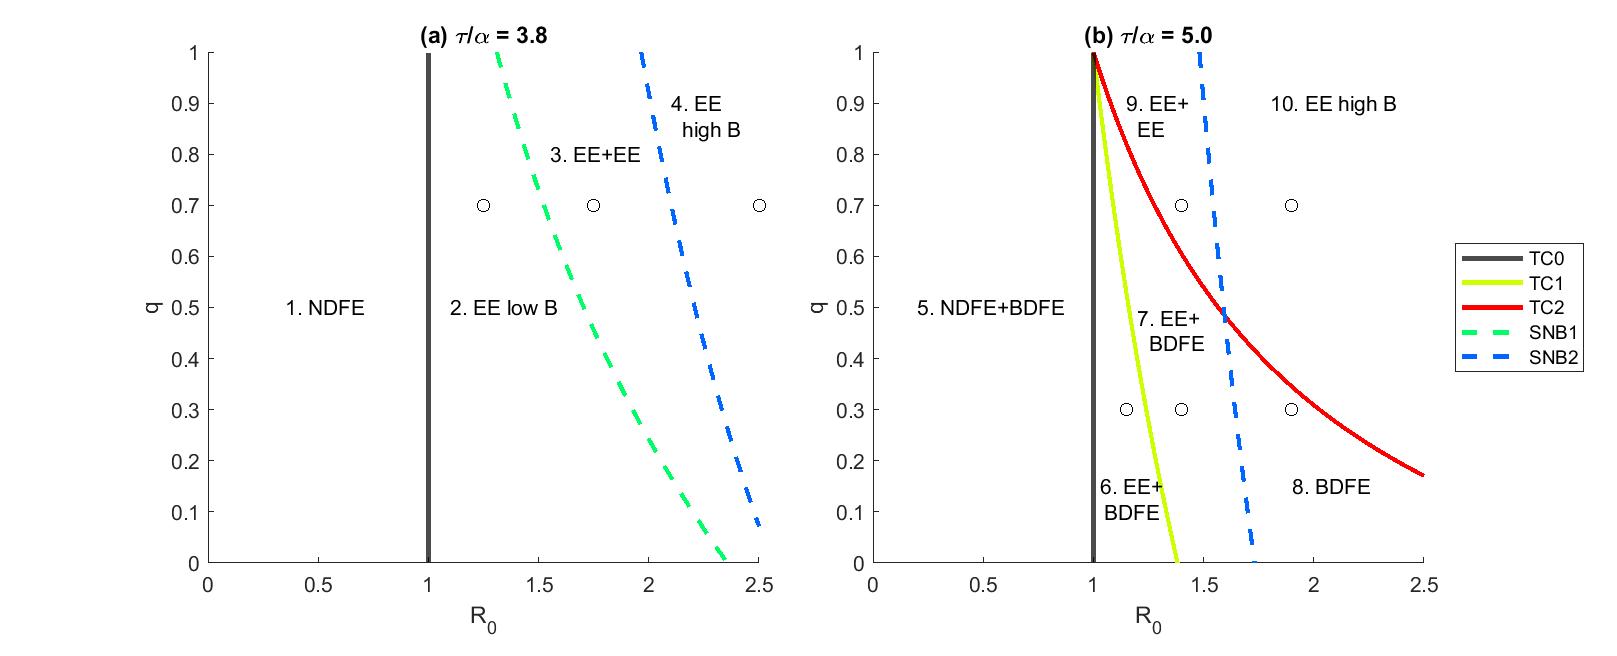
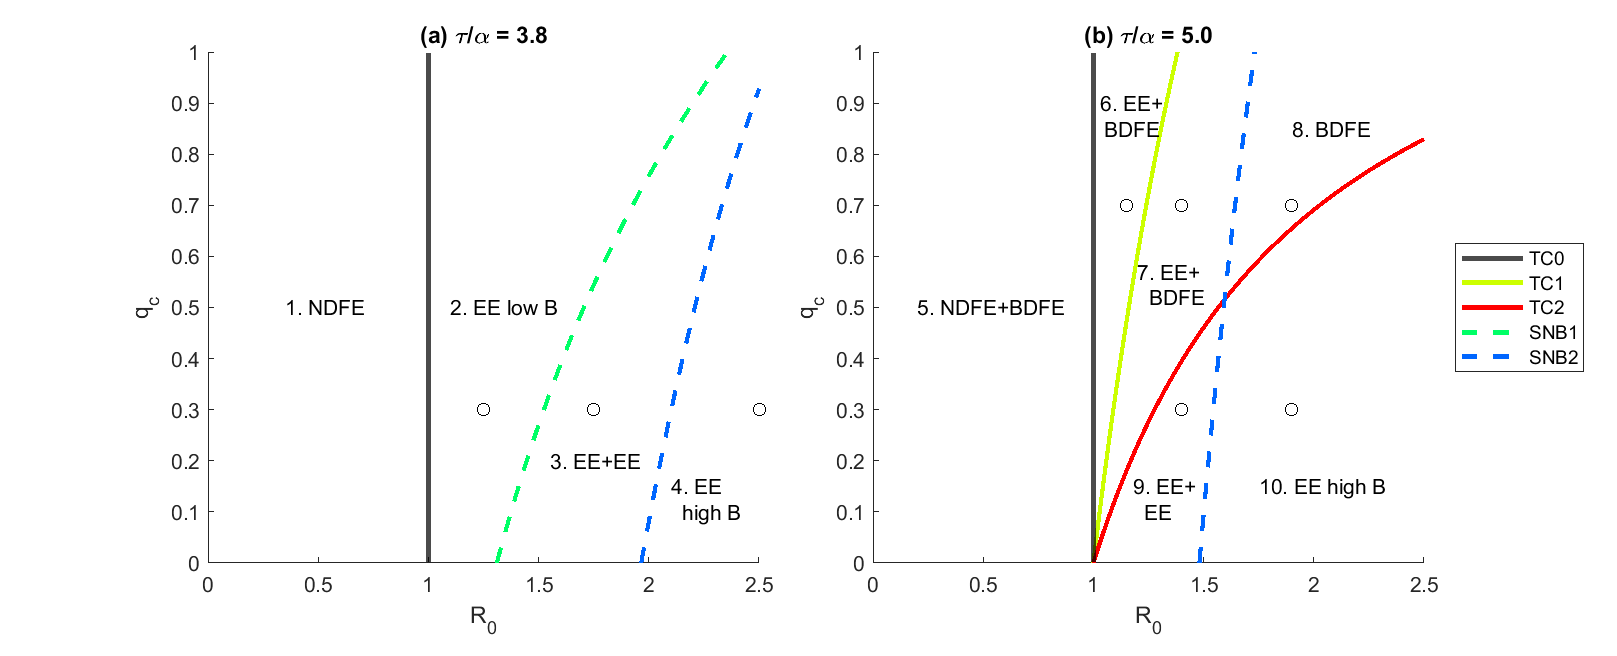
Changed q to 1-q

diff --git a/bifurcation_plot.m b/bifurcation_plot.m
@@ -43,16 +43,17 @@ for iCase = 1:nCases
     % BDFEs
     Bstar = 0.5 * (1 + [1, -1]*sqrt(1-4/a));
     
-    % Bifurcation values of q at each of the BDFEs
-    qplus = (1./R0 + Bstar(1) - 1)./Bstar(1);
-    qminus = (1./R0 + Bstar(2) - 1)./Bstar(2);
+    % Bifurcation values of q at each of the BDFEs (transcritical
+    % bifurcations)
+    qplus = (1 - 1./R0)./Bstar(1);
+    qminus = (1 - 1./R0)./Bstar(2);
     
     % Find the value of R0 at the SNBs as a function of q numerically
-    % Start at q=1 and work down (as it's easier to guess SNB location when q=1
-    % as the S nullcline is vertical)
-    qv = 1:-0.01:0;
+    % Start at q=0 and work up (as it's easier to guess SNB location when
+    % q=0 as the S nullcline is vertical)
+    qv = 0:0.01:1;
     
-    % First doe SNB2, which is the SNB with the lower value of B (and higher
+    % First do SNB2, which is the SNB with the lower value of B (and higher
     % value of R0), which exists for all b
     RSNB2 = zeros(size(qv));
     BSNB2 = zeros(size(qv));
@@ -65,7 +66,7 @@ for iCase = 1:nCases
         RSNB2(ii) = x(1);
         BSNB2(ii) = x(2);
         % Calculate the corresponding value of S
-        SSNB2(ii) = 1/(RSNB2(ii)*(1+(qv(ii)-1)*BSNB2(ii)) );
+        SSNB2(ii) = 1/(RSNB2(ii)*(1-qv(ii)*BSNB2(ii)) );
         % Use this solution as the initial guess for the next value of q
         x0 = x;
     end
@@ -83,7 +84,7 @@ for iCase = 1:nCases
             RSNB1(ii) = x(1);
             BSNB1(ii) = x(2);
             % Calculate the corresponding value of S
-            SSNB1(ii) = 1/(RSNB1(ii)*(1+(qv(ii)-1)*BSNB1(ii)) );
+            SSNB1(ii) = 1/(RSNB1(ii)*(1-qv(ii)*BSNB1(ii)) );
             % Use this solution as the initial guess for the next value of q
             x0 = x;
         end
@@ -119,7 +120,7 @@ for iCase = 1:nCases
     xlim([0, max(R0)])
     ylim([0 1])
     xlabel('R_0')
-    ylabel('q')
+    ylabel('q_c')
 
 
 
@@ -131,26 +132,26 @@ for iCase = 1:nCases
         % Region 2
         text(1.1, 0.5, '2. EE low B')
         % Region 3
-        text(1.55, 0.8, '3. EE+EE')
+        text(1.55, 0.2, '3. EE+EE')
         % Region 4
-        text(2.1, 0.9, '4. EE')
-        text(2.15, 0.85, 'high B')
+        text(2.1, 0.15, '4. EE')
+        text(2.15, 0.1, 'high B')
     else
         % Region 5
         text(0.2 ,0.5, '5. NDFE+BDFE')
         % Region 6
-        text(1.03, 0.15, '6. EE+')
-        text(1.05, 0.1, 'BDFE')
+        text(1.03, 0.9, '6. EE+')
+        text(1.05, 0.85, 'BDFE')
         % Region 7
-        text(1.2, 0.48, '7. EE+')
-        text(1.25, 0.43, 'BDFE')
+        text(1.2, 0.57, '7. EE+')
+        text(1.25, 0.52, 'BDFE')
         % Region 8
-        text(1.9, 0.15, '8. BDFE')
+        text(1.9, 0.85, '8. BDFE')
         % Region 9
-        text(1.15, 0.9, '9. EE+')
-        text(1.2, 0.85, 'EE')
+        text(1.18, 0.15, '9. EE+')
+        text(1.23, 0.1, 'EE')
         % Region 10
-        text(1.8, 0.9, '10. EE high B')
+        text(1.75, 0.15, '10. EE high B')
 
 
     end

diff --git a/getPar.m b/getPar.m
@@ -11,42 +11,42 @@ if iCase == 1
     % Regime 2
     par.Tau = 3.8 * par.Alpha;
     par.Beta = 1.25 * par.Gamma;
-    par.q = 0.7;
+    par.q = 0.3;
 elseif iCase == 2
     % Regime 3
     par.Tau = 3.8 * par.Alpha;
     par.Beta = 1.75 * par.Gamma;
-    par.q = 0.7;
+    par.q = 0.3;
 elseif iCase == 3
     % Regime 4
     par.Tau = 3.8 * par.Alpha;
     par.Beta = 2.5 * par.Gamma;
-    par.q = 0.7;
+    par.q = 0.3;
 elseif iCase == 4
     % Regime 6
     par.Tau = 5 * par.Alpha;
     par.Beta = 1.4 * par.Gamma;
-    par.q = 0.7;
+    par.q = 0.3;
 elseif iCase == 5
     % Regime 7
     par.Tau = 5 * par.Alpha;
     par.Beta = 1.9 * par.Gamma;
-    par.q = 0.7;
+    par.q = 0.3;
 elseif iCase == 6
     % Regime 8
     par.Tau = 5 * par.Alpha;
     par.Beta = 1.15 * par.Gamma;
-    par.q = 0.3;
+    par.q = 0.7;
 elseif iCase == 7
     % Regime 9
     par.Tau = 5 * par.Alpha;
     par.Beta = 1.4 * par.Gamma;
-    par.q = 0.3;
+    par.q = 0.7;
 else
     % Regime 10
     par.Tau = 5 * par.Alpha;
     par.Beta = 1.9 * par.Gamma; 
-    par.q = 0.3;
+    par.q = 0.7;
 end
 
 

diff --git a/main.m b/main.m
@@ -144,7 +144,7 @@ for iCase = 1:nCases
             % Plot trajectories from the two initial conditions
             %ha.ColorOrderIndex = 1;
             for iIC = 1:nICs
-                plot(traj(iIC).S, traj(iIC).B, 'k-', 'LineWidth', 1.5, 'HandleVisibility', 'off')
+                plot(traj(iIC).S, traj(iIC).B, 'k-', 'LineWidth', 1, 'HandleVisibility', 'off')
             end
             xlim([0.4 1])
             ylim([0 1])

diff --git a/myFn.m b/myFn.m
@@ -3,8 +3,8 @@ function F = myFn(x, q, a, b)
 R0 = x(1);
 B = x(2);
 
-F(1) = -B + (1-B) * (a*B^2 + b*(1 - 1/(R0*(1+(q-1)*B)) ) );
-F(2) = -(1+2*(q-1)*B) + a*(2*B - 3*B^2 + 3*(q-1)*B^2 - 4*(q-1)*B^3) + b * (q-1-2*(q-1)*B + 1/R0 - 1);
+F(1) = -B + (1-B) * (a*B^2 + b*(1 - 1/(R0*(1-q*B)) ) );
+F(2) = -(1-2*q*B) + a*(2*B - 3*B^2 - 3*q*B^2 + 4*q*B^3) + b * (-q+2*q*B + 1/R0 - 1);
 
 
 

diff --git a/myODEs_suscept.m b/myODEs_suscept.m
@@ -12,7 +12,7 @@ S = SN+SB;
 Omega = par.Tau*B^2 + par.Chi*(1-S);
 
 dSNdt = -par.Beta*(1-S)*SN + par.Gamma*(1-B-SN) - Omega*SN + par.Alpha*SB; 
-dSBdt = -par.Beta*par.q*(1-S)*SB + par.Gamma*(B-SB) + Omega*SN - par.Alpha*SB; 
+dSBdt = -par.Beta*(1-par.q)*(1-S)*SB + par.Gamma*(B-SB) + Omega*SN - par.Alpha*SB; 
 dBdt = Omega*(1-B) - par.Alpha*B;
 
 dydt = [dSNdt; dSBdt; dBdt];

diff --git a/myODEs_trans.m b/myODEs_trans.m
@@ -11,7 +11,7 @@ S = SN+SB;
 
 Omega = par.Tau*B^2 + par.Chi*(1-S);
 
-Lambda = par.Beta * (1-B-SN + par.q*(B-SB));
+Lambda = par.Beta * (1-B-SN + (1-par.q)*(B-SB));
 
 dSNdt = -Lambda*SN + par.Gamma*(1-B-SN) - Omega*SN + par.Alpha*SB; 
 dSBdt = -Lambda*SB + par.Gamma*(B-SB) + Omega*SN - par.Alpha*SB; 

diff --git a/myVectorField.m b/myVectorField.m
@@ -5,7 +5,7 @@ function [dSdt, dBdt] = myVectorField(S, B, par)
 
 Omega = par.Tau*B.^2 + par.Chi*(1-S);
 
-Lambda = par.Beta * (1-S) .* (1-B+par.q*B);
+Lambda = par.Beta * (1-S) .* (1-par.q*B);
 
 dSdt = -Lambda.*S + par.Gamma*(1-S); 
 dBdt = Omega.*(1-B) - par.Alpha*B;

diff --git a/getPhasePlotOutputs.m b/getPhasePlotOutputs.m
@@ -19,7 +19,7 @@ V = V.*Z.^(pQuiv-1);
 
 % Get (B,S) coords for the S nullcline
 Snull1 = 0:dx:1;
-Bnull1 = 1/(1-par.q) * (1 - 1./(R0*Snull1));
+Bnull1 = 1/par.q * (1 - 1./(R0*Snull1));
 
 % Get (B,S) coords for the B nullcline
 Bnull2 = 0:dx:1;
